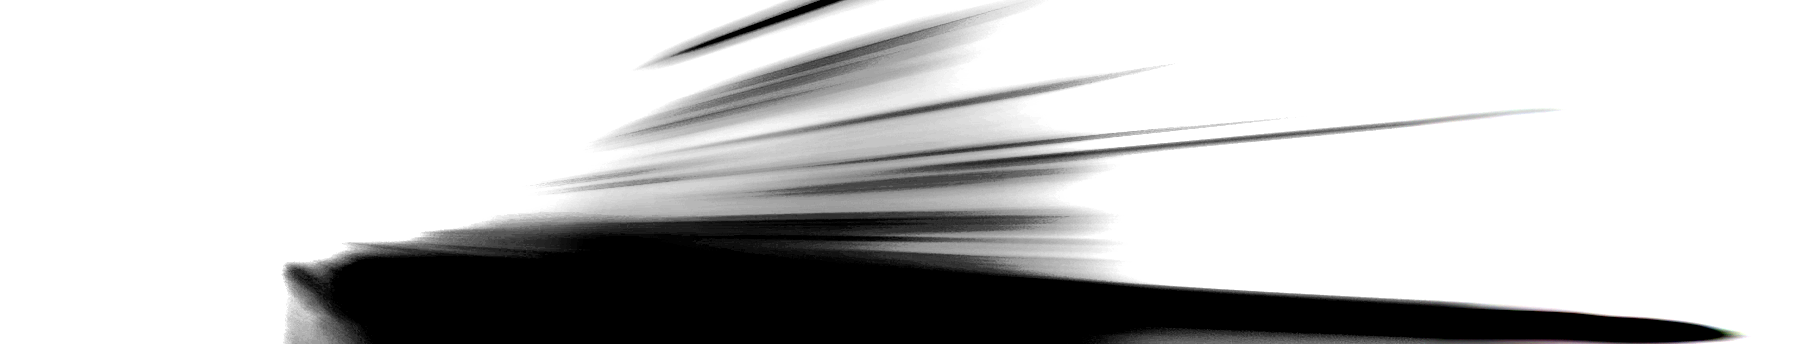
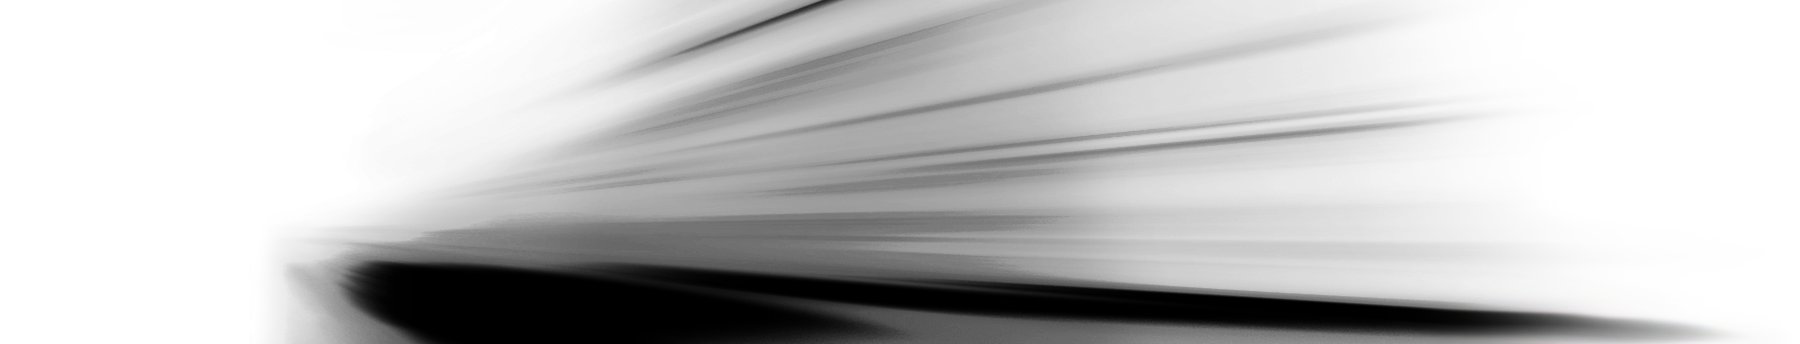
style changes header

diff --git a/src/rheacting.sitetheme/rheacting/sitetheme/resources/css/styles.css b/src/rheacting.sitetheme/rheacting/sitetheme/resources/css/styles.css
@@ -6109,7 +6109,7 @@ body > header #main-nav .selected > a:focus {
 body.section-acting > header {
   background: url(../img/header_acting.png) 50% 0 no-repeat transparent;
   background-position: center;
-  background-color: #D7D7D7;
+  background-color: #fff;
 }
 body.section-acting > header .navbar #main-links a {
   color: #000;

diff --git a/src/rheacting.sitetheme/rheacting/sitetheme/resources/less/application.less b/src/rheacting.sitetheme/rheacting/sitetheme/resources/less/application.less
@@ -121,7 +121,7 @@ body > header {
 body.section-acting > header {
     background: url(../img/header_acting.png) 50% 0 no-repeat transparent;
     background-position: center;
-    background-color: #D7D7D7;
+    background-color: #fff;
     .navbar #main-links a {
         color: #000;
     }
